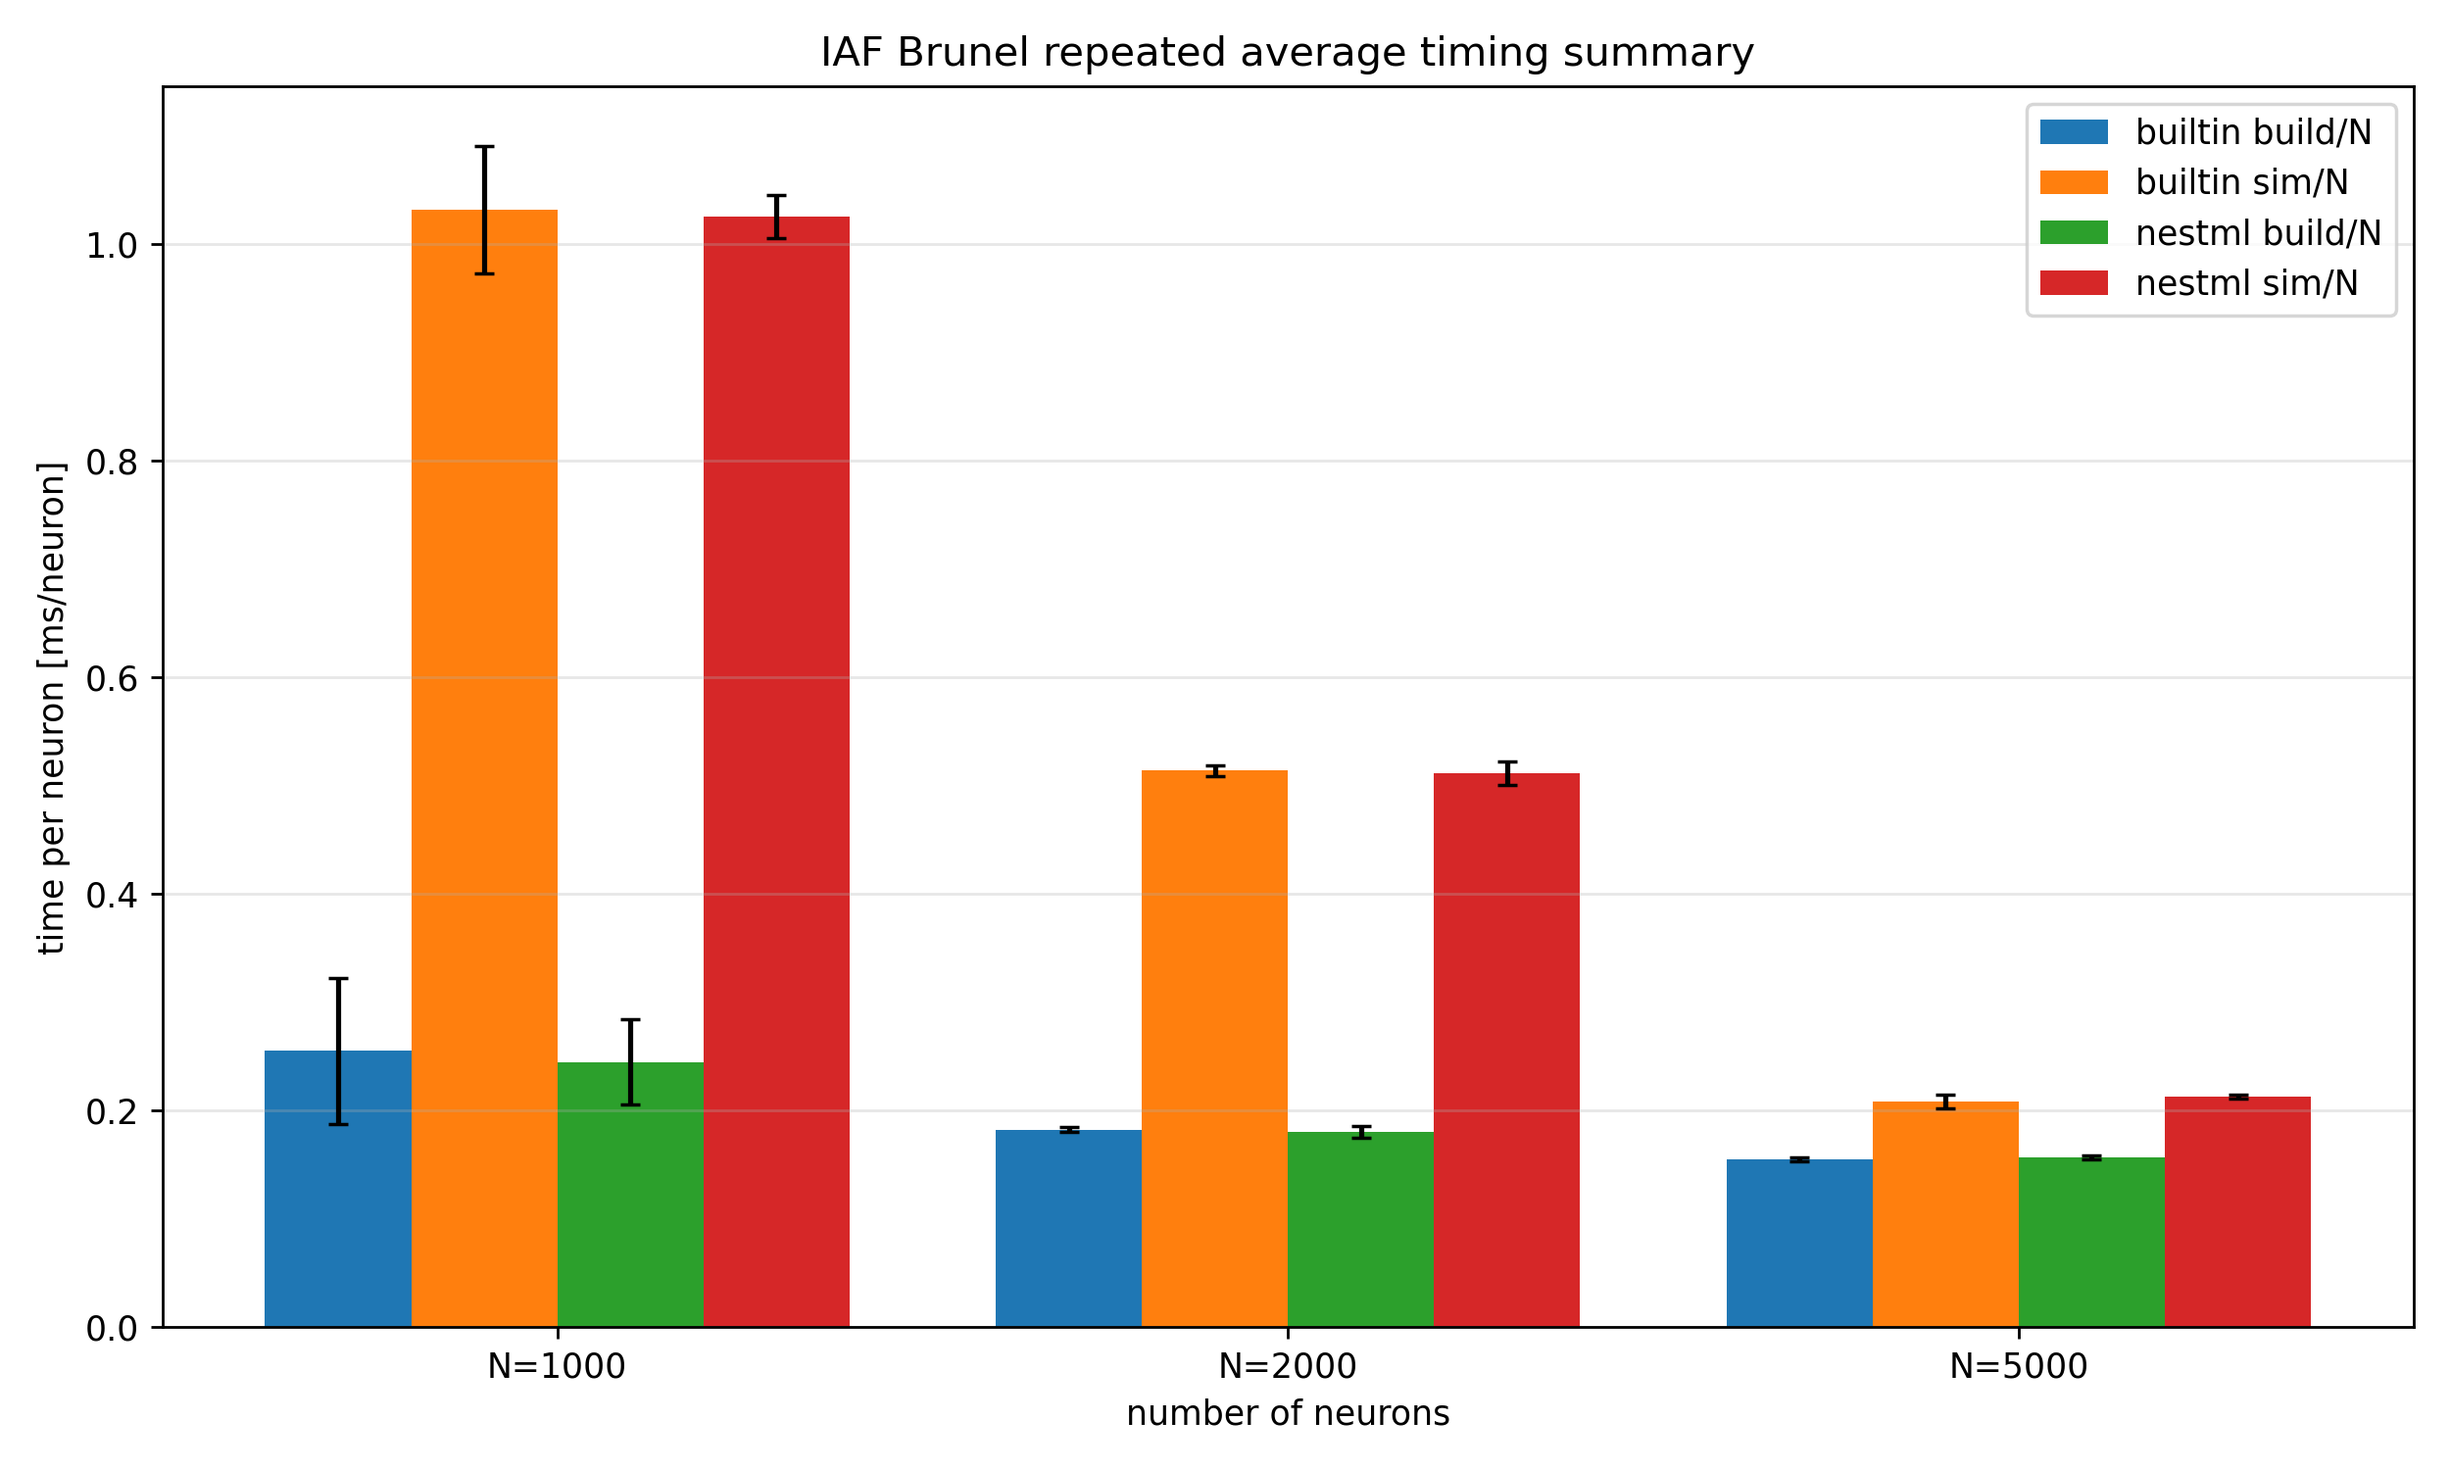
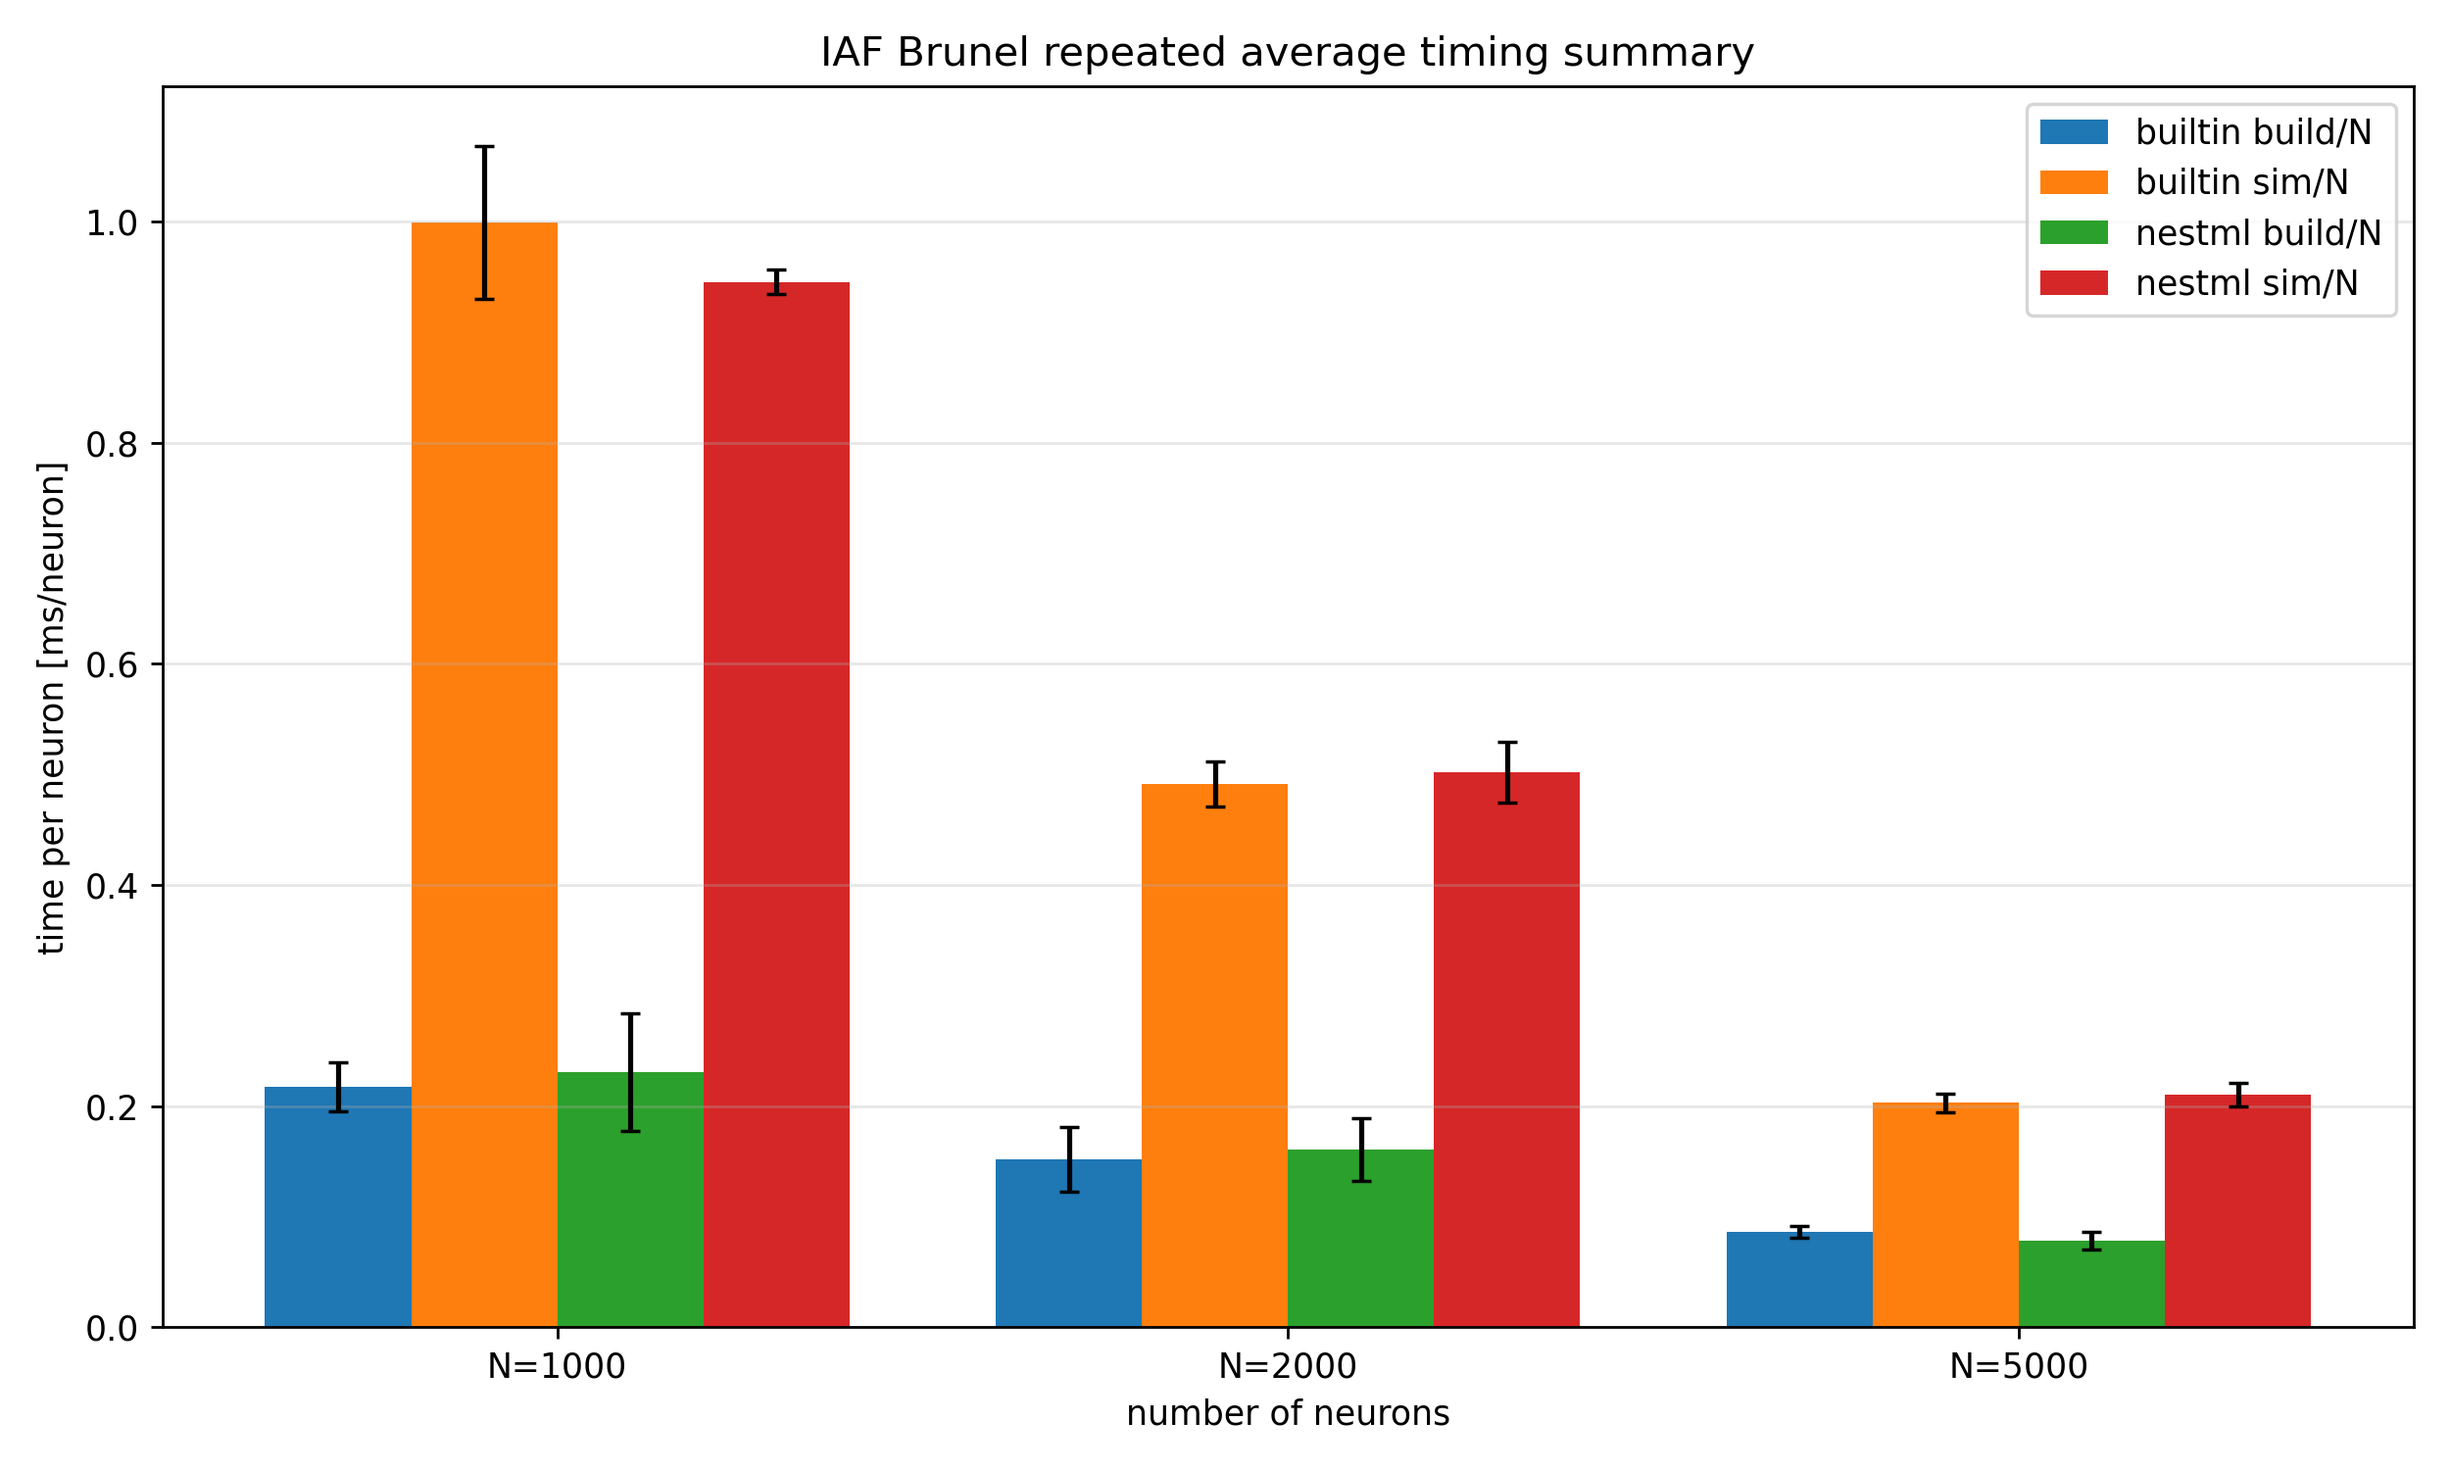
fixing bugs and new old nestml brunel average results

diff --git a/testing/brunel_testing/old_nestml/test_brunel_repeat_average_old_nestml.py b/testing/brunel_testing/old_nestml/test_brunel_repeat_average_old_nestml.py
@@ -293,66 +293,63 @@ def plot_summary(summary_rows, outdir):
         labels = [f"N={n}" for n in neuron_counts]
         x = np.arange(len(neuron_counts))
 
-        # 4 bars per neuron count:
+        # 4 bars per  neuron count:
         # builtin building, builtin simulation, old_nestml building, old_nestml simulation
-        bar_labels = []
-        bar_values = []
-        bar_errors = []
+        width = 0.20
+
+        plt.figure(figsize=(max(10, len(neuron_counts) * 1.8), 6))
 
         for impl in impl_order:
-            build_values = []
-            build_errors = []
-            sim_values = []
-            sim_errors = []
+            building = []
+            building_err = []
+            simulation = []
+            simulation_err = []
 
             for n in neuron_counts:
                 row = lookup.get((impl, n))
 
                 if row is None:
-                    build_values.append(np.nan)
-                    build_errors.append(0.0)
-                    sim_values.append(np.nan)
-                    sim_errors.append(0.0)
+                    building.append(np.nan)
+                    building_err.append(0.0)
+                    simulation.append(np.nan)
+                    simulation_err.append(0.0)
                     continue
 
-                build_values.append(row["building_time_s_mean"])
-                build_errors.append(row["building_time_s_std"] or 0.0)
+                building.append(row["building_ms_per_neuron_mean"])
+                building_err.append(row["building_ms_per_neuron_std"] or 0.0)
 
-                sim_values.append(row["simulation_wall_time_s_mean"])
-                sim_errors.append(row["simulation_wall_time_s_std"] or 0.0)
+                simulation.append(row["simulation_ms_per_neuron_mean"])
+                simulation_err.append(row["simulation_ms_per_neuron_std"] or 0.0)
 
-            bar_labels.append(f"{nice_impl_name(impl)} building")
-            bar_values.append(build_values)
-            bar_errors.append(build_errors)
-
-            bar_labels.append(f"{nice_impl_name(impl)} simulation")
-            bar_values.append(sim_values)
-            bar_errors.append(sim_errors)
-
-        n_bars = len(bar_values)
-        width = 0.8 / n_bars
-
-        fig_width = max(10, len(neuron_counts) * 1.6)
-        fig_height = 6
-
-        plt.figure(figsize=(fig_width, fig_height))
-
-        for i in range(n_bars):
-            offset = (i - (n_bars - 1) / 2.0) * width
+            if impl == "builtin":
+                build_offset = -1.5 * width
+                sim_offset = -0.5 * width
+            else:
+                build_offset = 0.5 * width
+                sim_offset = 1.5 * width
 
             plt.bar(
-                x + offset,
-                bar_values[i],
+                x + build_offset,
+                building,
                 width,
-                yerr=bar_errors[i],
+                yerr=building_err,
                 capsize=3,
-                label=bar_labels[i],
+                label=f"{nice_impl_name(impl)} build/N",
             )
 
-        plt.ylabel("time [s]")
+            plt.bar(
+                x + sim_offset,
+                simulation,
+                width,
+                yerr=simulation_err,
+                capsize=3,
+                label=f"{nice_impl_name(impl)} sim/N",
+            )
+
+        plt.ylabel("time per neuron [ms/neuron]")
         plt.xlabel("number of neurons")
         plt.title(
-            f"{family.upper()} Brunel repeated average timing "
+            f"{family.upper()} Brunel repeated average timing summary "
             f"(built-in vs old NESTML)"
         )
 
@@ -370,19 +367,19 @@ def plot_summary(summary_rows, outdir):
 
 def print_summary_table(summary_rows):
     print()
-    print("=" * 120)
+    print("=" * 150)
     print("Repeated Brunel average timing summary: built-in vs old NESTML")
-    print("=" * 120)
+    print("=" * 150)
 
     print(
         f"{'family':<8} "
         f"{'impl':<12} "
         f"{'N':>8} "
         f"{'rep':>5} "
-        f"{'build[s]':>14} "
-        f"{'sim[s]':>14} "
-        f"{'build/N[ms]':>14} "
-        f"{'sim/N[ms]':>14} "
+        f"{'build/N':>14} "
+        f"{'sim/N':>14} "
+        f"{'exc/N':>14} "
+        f"{'inh/N':>14} "
         f"{'CV':>10}"
     )
 
@@ -390,15 +387,21 @@ def print_summary_table(summary_rows):
         cv = r["cv_mean"]
         cv_str = "nan" if cv is None else f"{cv:.4f}"
 
+        exc_n = r["exc_rate_hz_per_neuron_count_mean"]
+        inh_n = r["inh_rate_hz_per_neuron_count_mean"]
+
+        exc_n_str = "nan" if exc_n is None else f"{exc_n:.8f}"
+        inh_n_str = "nan" if inh_n is None else f"{inh_n:.8f}"
+
         print(
             f"{r['family']:<8} "
             f"{r['impl']:<12} "
             f"{r['actual_neurons']:>8} "
             f"{r['repeats']:>5} "
-            f"{r['building_time_s_mean']:>14.8f} "
-            f"{r['simulation_wall_time_s_mean']:>14.8f} "
             f"{r['building_ms_per_neuron_mean']:>14.8f} "
             f"{r['simulation_ms_per_neuron_mean']:>14.8f} "
+            f"{exc_n_str:>14} "
+            f"{inh_n_str:>14} "
             f"{cv_str:>10}"
         )
 
@@ -530,10 +533,10 @@ def main():
                     print(
                         f"Result: family={family}, impl={impl}, "
                         f"N={actual_neurons}, "
-                        f"build={stats['building_time_s']:.8f}s, "
-                        f"sim={stats['simulation_wall_time_s']:.8f}s, "
                         f"build/N={stats['building_ms_per_neuron']:.8f}ms, "
                         f"sim/N={stats['simulation_ms_per_neuron']:.8f}ms, "
+                        f"exc/N={stats['exc_rate_hz_per_neuron_count']:.8f}, "
+                        f"inh/N={stats['inh_rate_hz_per_neuron_count']:.8f}, "
                         f"CV={stats['cv']}"
                     )
 

diff --git a/testing/brunel_testing/old_nestml/test_brunel_compare_overlay_old_nestml.py b/testing/brunel_testing/old_nestml/test_brunel_compare_overlay_old_nestml.py
@@ -288,7 +288,7 @@ def create_aeif_model(ngpu, impl, cfg):
             "tau_rise_in": 0.5,
             "tau_decay_in": 0.5,
 
-            # new: Keep old generated aliases here as fallback, unavailable names are ignored by set_status_if_available().
+            # new: Keep old generated aliases here as fallback. unavailable names are ignored by set_status_if_available().
             "tau_syn_exc": 0.5,
             "tau_syn_inh": 0.5,
             "E_exc": 0.0,
@@ -296,7 +296,7 @@ def create_aeif_model(ngpu, impl, cfg):
             "refr_T": 2.0,
             "I_stim": 0.0,
 
-            # new: Reset old NESTML conductance (state-like) variables if they are exposed.
+            # new: Reset old NESTML conductance/state like variables if they are exposed.
             "w": 0.0,
             "g_ex": 0.0,
             "g_in": 0.0,
@@ -338,10 +338,10 @@ def connect_brunel_network(ngpu, family, impl, neuron, cfg):
     elif family == "aeif":
         poiss_weight = 9.1
         poiss_rate = 200.0
-        
+
         if impl == "builtin":
             w_in = g * w_ex
-            
+
         # new:
         # Old NESTML case
         # Only change the AEIF old_nestml recurrent strength
@@ -455,11 +455,17 @@ def run_worker(args):
         args.sim_time,
     )
 
+    build_time_s = build_end - build_start
+    sim_wall_time_s = sim_end - sim_start
+    total_wall_time_s = sim_end - build_start
+
+    actual_neurons = cfg["n_neurons"]
+
     stats = {
         "family": args.family,
         "impl": args.impl,
         "requested_neurons": args.n_neurons,
-        "actual_neurons": cfg["n_neurons"],
+        "actual_neurons": actual_neurons,
         "n_exc": cfg["n_exc"],
         "n_inh": cfg["n_inh"],
         "ce": cfg["ce"],
@@ -467,9 +473,18 @@ def run_worker(args):
         "record_var": record_var,
         "record_neurons": [int(x) for x in record_neurons],
         "neural_activity_simulation_time_ms": args.sim_time,
-        "building_time_s": build_end - build_start,
-        "simulation_wall_time_s": sim_end - sim_start,
-        "total_wall_time_s": sim_end - build_start,
+
+        # Absolute wall-clock timings.
+        "building_time_s": build_time_s,
+        "simulation_wall_time_s": sim_wall_time_s,
+        "total_wall_time_s": total_wall_time_s,
+
+        # Normalized timings.
+        # These are the values that should be used for the repeated-average timing summary plots.
+        "building_time_per_neuron_ms": 1000.0 * build_time_s / actual_neurons,
+        "simulation_wall_time_per_neuron_ms": 1000.0 * sim_wall_time_s / actual_neurons,
+        "total_wall_time_per_neuron_ms": 1000.0 * total_wall_time_s / actual_neurons,
+
         **conn_info,
         **spike_stats,
     }
@@ -544,8 +559,10 @@ def print_summary(outdir, family):
     print()
     print(f"===== {family.upper()} comparison summary: built-in vs old NESTML =====")
     print(
-        f"{'impl':<12} {'neurons':>8} {'build[s]':>12} "
-        f"{'sim wall[s]':>12} {'activity[ms]':>14} "
+        f"{'impl':<12} {'neurons':>8} "
+        f"{'build[s]':>12} {'sim wall[s]':>12} "
+        f"{'build/N[ms]':>14} {'sim/N[ms]':>14} "
+        f"{'activity[ms]':>14} "
         f"{'exc Hz':>10} {'inh Hz':>10} {'CV':>10}"
     )
 
@@ -553,11 +570,23 @@ def print_summary(outdir, family):
         cv = s["cv"]
         cv_str = "nan" if cv is None else f"{cv:.4f}"
 
+        build_per_neuron_ms = s.get(
+            "building_time_per_neuron_ms",
+            1000.0 * s["building_time_s"] / s["actual_neurons"],
+        )
+
+        sim_per_neuron_ms = s.get(
+            "simulation_wall_time_per_neuron_ms",
+            1000.0 * s["simulation_wall_time_s"] / s["actual_neurons"],
+        )
+
         print(
             f"{s['impl']:<12} "
             f"{s['actual_neurons']:>8} "
             f"{s['building_time_s']:>12.4f} "
             f"{s['simulation_wall_time_s']:>12.4f} "
+            f"{build_per_neuron_ms:>14.4f} "
+            f"{sim_per_neuron_ms:>14.4f} "
             f"{s['neural_activity_simulation_time_ms']:>14.1f} "
             f"{s['exc_rate_hz']:>10.2f} "
             f"{s['inh_rate_hz']:>10.2f} "

diff --git a/testing/brunel_testing/Boost_odeint_nestml/test_brunel_compare_overlay.py b/testing/brunel_testing/Boost_odeint_nestml/test_brunel_compare_overlay.py
@@ -536,7 +536,7 @@ def get_nestgpu_vars_script(impl):
         return "/p/project1/cslns/natouf1/nest-gpu/install_numeric/bin/nestgpu_vars.sh"
 
     if impl == "nestml":
-        return "/p/project1/cslns/natouf1/nest-gpu/install_numeric_odeint/bin/nestgpu_vars.sh"
+        return "/p/project1/cslns/natouf1/nest-gpu/install/bin/nestgpu_vars.sh"
 
     raise ValueError(impl)
 
